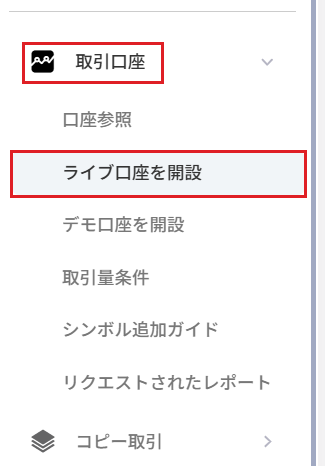
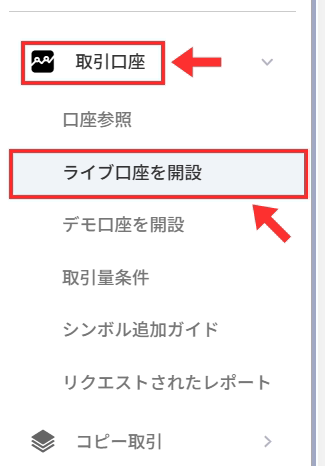
HFMで口座を作る：取引口座開設スクショの赤枠をCanvaと同じ太さに・赤矢印を追加／STEP 4「取引ツールを準備する」（ダウンロード→インストール→ログイン）を追加／タイトルを「（HFMロゴ）で 口座を作る」に

Changed region(s): [[0.0, 0.3004, 0.9538, 0.5408], [0.0615, 0.0601, 0.7077, 0.2103]]

diff --git a/ytt-web-hfm.html b/ytt-web-hfm.html
@@ -1005,7 +1005,13 @@
     .no-account-btns a { width: 100%; display: inline-flex; align-items: center; justify-content: center; text-align: center; box-sizing: border-box; min-height: 52px; }
     .no-account .ytt-spec-acc-body p.no-account-next { font-size: 0.8rem; color: #6b7280; margin-top: 0.9rem; }
     /* HFMで口座を作る */
-    .hfm-hero-logo { display: block; width: 150px; height: auto; margin: 0 auto 1rem; }
+    .hfm-title-logo { display: inline-block; height: 2.1em; width: auto; vertical-align: -0.62em; margin-right: 0.12em; }
+    .ytt-sp-title-line .hfm-title-logo ~ .ytt-title-wave { margin-top: 0.45em; }
+    .ytt-add-grid.flow4 { grid-template-columns: repeat(4, minmax(0, 1fr)); }
+    @media (max-width: 900px) { .ytt-add-grid.flow4 { grid-template-columns: repeat(2, minmax(0, 1fr)); max-width: 560px; margin-left: auto; margin-right: auto; } }
+    @media (max-width: 520px) { .ytt-add-grid.flow4 { grid-template-columns: 1fr; max-width: 460px; } }
+    .tool-dl-btns { display: flex; flex-wrap: wrap; gap: 0.6rem; }
+    .tool-dl-btns a { min-width: 190px; text-align: center; }
     .next-btns { display: flex; flex-wrap: wrap; justify-content: center; gap: 0.75rem; margin-top: 0.5rem; }
     .next-btns a { min-width: 220px; text-align: center; }
     .section-alt { background: #f4f6f9; }
@@ -1045,9 +1051,8 @@
 
 <!-- HERO -->
 <section class="ytt-sp-hero">
-    <img src="img/webytt/hfm-logo.png" alt="HFM（HF Markets）" class="hfm-hero-logo" width="451" height="223">
     <h1 class="ytt-sp-hero-title">
-        <span class="ytt-sp-title-line"><span class="line-text">HFMで<img class="ytt-title-wave" src="img/wave-yellow.png" alt=""></span></span>
+        <span class="ytt-sp-title-line"><span class="line-text"><img class="hfm-title-logo" src="img/webytt/hfm-logo.png" alt="HFM" width="451" height="223">で<img class="ytt-title-wave" src="img/wave-yellow.png" alt=""></span></span>
         <span class="ytt-sp-title-line"><span class="line-text">口座を作る<img class="ytt-title-wave" src="img/wave-yellow.png" alt=""></span></span>
     </h1>
     <p class="ytt-sp-hero-lead">
@@ -1071,16 +1076,17 @@
             </span>
             <div style="text-align:center; margin-bottom:0.25rem;">
                 <div style="display:inline-block; white-space:nowrap;">
-                    <h2 style="font-size:clamp(0.85rem,4.5vw,1.5rem); white-space:nowrap; margin:0;">3ステップで口座ができます</h2>
+                    <h2 style="font-size:clamp(0.85rem,4.5vw,1.5rem); white-space:nowrap; margin:0;">4ステップで準備できます</h2>
                     <img src="img/wave-orange.png" alt="" style="display:block;width:100%;height:clamp(14px,3vw,22px);object-fit:fill;margin:0.1rem 0 0.5rem;">
                 </div>
             </div>
             <p>上から順番に進めてください。</p>
         </div>
-        <div class="ytt-add-grid flow3">
+        <div class="ytt-add-grid flow3 flow4">
             <a class="ytt-add-card" href="#h-step1"><img class="flow-num" src="img/crayon-1.png" alt="1"><h3>アカウント登録</h3><p>メールアドレスとパスワードで、HFMのアカウントを作る</p></a>
             <a class="ytt-add-card" href="#h-step2"><img class="flow-num" src="img/crayon-2.png" alt="2"><h3>本人確認</h3><p>名前や住所を入力し、本人確認書類を提出する</p></a>
             <a class="ytt-add-card" href="#h-step3"><img class="flow-num" src="img/crayon-3.png" alt="3"><h3>取引口座の開設</h3><p>MT4かMT5を選んで、取引口座を作る</p></a>
+            <a class="ytt-add-card" href="#h-step4"><img class="flow-num" src="img/crayon-4.png" alt="4"><h3>取引ツールの準備</h3><p>MT4かMT5をダウンロードして、作った口座でログインする</p></a>
         </div>
     </div>
 </section>
@@ -1243,8 +1249,73 @@
                 <div class="gstep-no">5</div>
                 <div class="gstep-body">
                     <p class="gstep-title">口座番号が表示されたら完了</p>
-                    <p>口座番号などの口座情報が画面に表示され、同じ内容がメールでも届きます。</p>
-                    <p>取引ツール（MT4 / MT5）は、HFMのサイトからダウンロードしてログインします。実際にトレードするには、口座への入金も必要です。</p>
+                    <p>口座番号などの口座情報が画面に表示され、同じ内容がメールでも届きます。次の STEP 4 で、この口座番号とパスワードを使います。</p>
+                </div>
+            </div>
+        </div>
+    </div>
+</section>
+
+<!-- STEP 4 -->
+<section class="ytt-spec-section" id="h-step4" style="background:#f4f6f9;">
+    <div class="ytt-spec-inner">
+        <div class="ytt-spec-header">
+            <span class="section-title-badge section-title-badge--blue">
+                <img class="hero-title-side hero-title-side--left" src="img/title-side-blue-left.png" alt="">
+                STEP 4
+                <img class="hero-title-side hero-title-side--right" src="img/title-side-blue-right.png" alt="">
+            </span>
+            <div style="text-align:center; margin-bottom:0.25rem;">
+                <div style="display:inline-block; white-space:nowrap;">
+                    <h2 style="font-size:clamp(0.85rem,4.5vw,1.5rem); white-space:nowrap; margin:0;">取引ツールを準備する</h2>
+                    <img src="img/wave-orange.png" alt="" style="display:block;width:100%;height:clamp(14px,3vw,22px);object-fit:fill;margin:0.1rem 0 0.5rem;">
+                </div>
+            </div>
+        </div>
+        <div class="guide-card">
+            <div class="gstep">
+                <div class="gstep-no">1</div>
+                <div class="gstep-body">
+                    <p class="gstep-title">STEP 3 で選んだ取引ツールのページを開く</p>
+                    <div class="gstep-btn tool-dl-btns"><a href="https://www.hfm.com/int/jp/platforms/mt4-terminal" class="btn-sq-blue" target="_blank" rel="noopener">MT4のページを開く</a><a href="https://www.hfm.com/int/jp/platforms/mt5-terminal" class="btn-sq-blue" target="_blank" rel="noopener">MT5のページを開く</a></div>
+                </div>
+            </div>
+            <div class="gstep">
+                <div class="gstep-no">2</div>
+                <div class="gstep-body">
+                    <p class="gstep-title">「Windowsにダウンロード」を押す</p>
+                    <p>取引ツールのファイル（.exe）がダウンロードされます。</p>
+                </div>
+            </div>
+            <div class="gstep">
+                <div class="gstep-no">3</div>
+                <div class="gstep-body">
+                    <p class="gstep-title">ダウンロードしたファイルを開いて、インストールする</p>
+                    <p>画面の案内に沿って進めます。インストールが終わったら、取引ツールを開きます。</p>
+                </div>
+            </div>
+            <div class="gstep">
+                <div class="gstep-no">4</div>
+                <div class="gstep-body">
+                    <p class="gstep-title">左上の「ファイル」→「取引口座にログイン」</p>
+                    <figure class="gshot narrow"><img src="img/webytt/s01-file-login.png" alt="ファイルメニューから取引口座にログインを選ぶ" loading="lazy"></figure>
+                    <p>画面はMT4のものです。MT5も同じ手順です。</p>
+                </div>
+            </div>
+            <div class="gstep">
+                <div class="gstep-no">5</div>
+                <div class="gstep-body">
+                    <p class="gstep-title">ログインID・パスワード・サーバーを入力して「ログイン」</p>
+                    <figure class="gshot mid"><img src="img/webytt/s02-login-dialog.png" alt="取引口座のログイン情報を入力する画面" loading="lazy"></figure>
+                    <p>ログインIDは口座番号です。パスワードは STEP 3 で決めたものを入力します。サーバーは、口座を開設したときの画面か、届いたメールで確認できます。</p>
+                </div>
+            </div>
+            <div class="gstep">
+                <div class="gstep-no">6</div>
+                <div class="gstep-body">
+                    <p class="gstep-title">左上に口座番号が出たら準備完了</p>
+                    <figure class="gshot narrow"><img src="img/webytt/s03-account-no.png" alt="取引ツールの左上に口座番号が表示される" loading="lazy"></figure>
+                    <p class="gnote">実際にトレードするには、口座への入金も必要です。</p>
                 </div>
             </div>
         </div>
@@ -1252,7 +1323,7 @@
 </section>
 
 <!-- 次は導入 -->
-<section class="ytt-spec-section" id="next" style="background:#f4f6f9;">
+<section class="ytt-spec-section" id="next" style="background:#fff;">
     <div class="ytt-spec-inner">
         <div class="ytt-spec-header">
             <span class="section-title-badge section-title-badge--orange">
